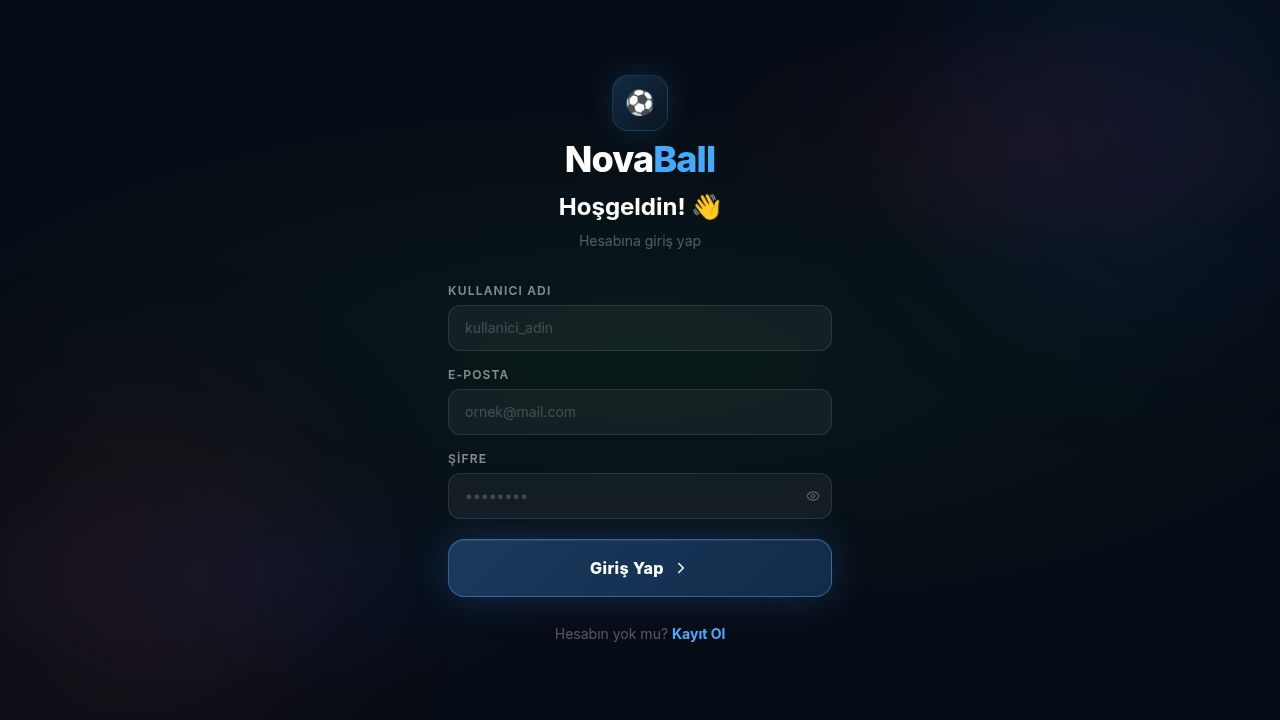
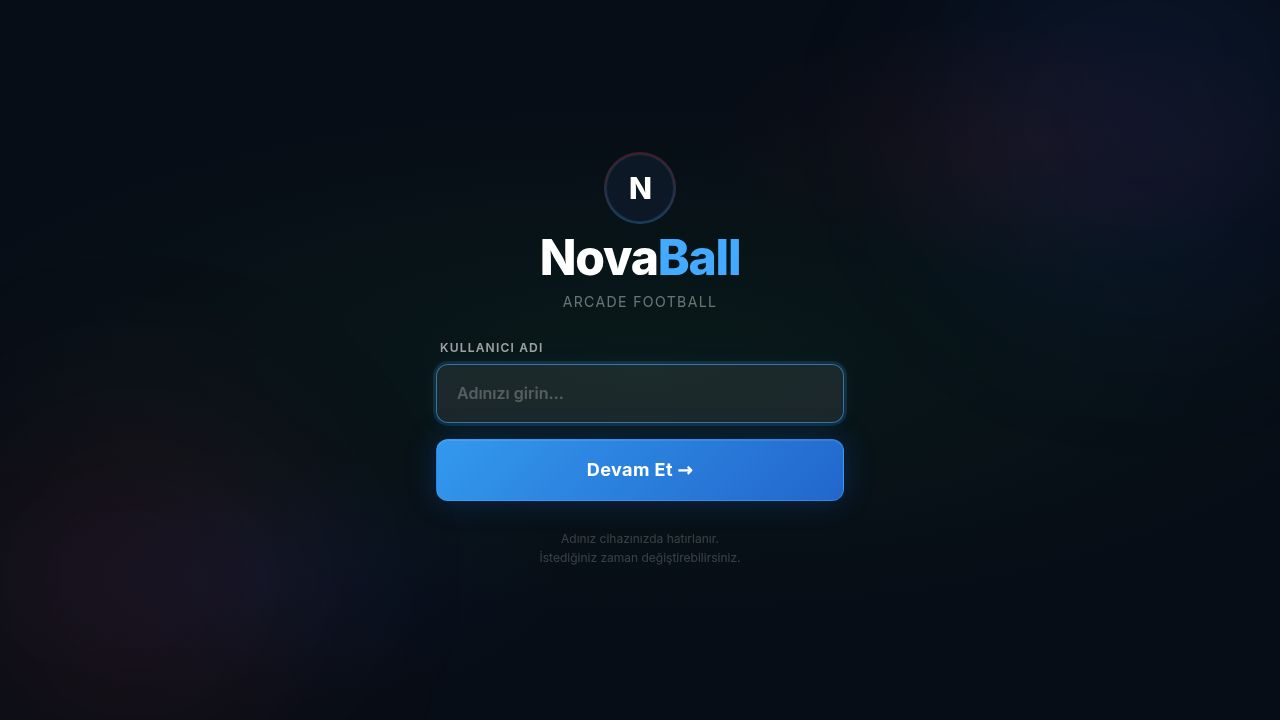
Revert "NovaBall: framer-motion eklendi, Replit monorepo yapısına güncellendi"
This reverts commit 960814a79bff9597d0ea15e9e783d79b86308b1d.

Changed region(s): [[0.3125, 0.0917, 0.6875, 0.7028], [0.3438, 0.7333, 0.6562, 0.8861], [0.6562, 0.5194, 0.6875, 0.5806]]

diff --git a/replit.md b/replit.md
@@ -1,0 +1,180 @@
+# NovaBall
+
+**NovaBall**, Haxball ve Mamoball'dan ilham alan modern bir 2D tepeden görünümlü arcade futbol oyunudur. React 19, TypeScript ve Vite üzerine inşa edilmiş, Supabase destekli tam hesap sistemiyle çalışan tarayıcı tabanlı bir oyundur. Hem masaüstü (klavye) hem de mobil yatay ekran (dokunmatik joystick) desteklenmektedir.
+
+## Kurulum ve Çalıştırma
+
+```bash
+npm run dev        # geliştirme sunucusu (port 5000)
+npm run build      # üretim derlemesi → dist/
+npm run typecheck  # TypeScript tip kontrolü
+```
+
+## Teknoloji Yığını
+
+| Katman | Teknoloji |
+|--------|-----------|
+| Dil | TypeScript 5.9 (strict) |
+| Frontend | React 19 + Vite 7 + Tailwind CSS v4 |
+| Oyun döngüsü | HTML5 Canvas + requestAnimationFrame |
+| Fizik | `useGamePhysics.ts` — özel impuls tabanlı motor |
+| Auth & Veri | Supabase (Email Auth + PostgreSQL + Realtime) |
+| Görsel paylaşım | html-to-image (maç sonuç kartı PNG üretimi) |
+| Mobil | Dokunmatik sanal joystick + aksiyon butonları |
+
+## Proje Yapısı
+
+```
+src/
+├── types/
+│   └── game.ts                 # Sabitler, arayüzler (Player, Ball, AppScreen, MatchResultData…)
+├── utils/
+│   ├── rankSystem.ts           # Rank kademeleri, RP hesaplama, localStorage yardımcıları
+│   └── changelogData.ts        # Sürüm geçmişi verileri (ChangelogEntry[])
+├── hooks/
+│   └── useGamePhysics.ts       # 60 FPS fizik motoru, AI, canvas çizimi
+├── lib/
+│   ├── supabase.ts             # Supabase istemcisi
+│   ├── db.ts                   # DB yardımcıları: profil, maç, lider tablosu, RP sync
+│   ├── auth.ts                 # Auth sarmalayıcıları: signIn, signUp, signOut, resend
+│   └── utils.ts                # cn() ve genel yardımcılar
+├── components/
+│   ├── auth/
+│   │   ├── LoginPage.tsx       # Giriş: kullanıcı adı + e-posta + şifre, "Hoşgeldin! 👋"
+│   │   ├── RegisterPage.tsx    # Kayıt: görünen ad, kullanıcı adı, e-posta, şifre + güç göstergesi
+│   │   └── EmailVerifyPage.tsx # E-posta doğrulama bekleme + tekrar gönderme
+│   ├── ui/                     # Shadcn-benzeri temel UI bileşenleri
+│   ├── GameBoard.tsx           # Canvas sarmalayıcı + HUD + mobil kontroller
+│   ├── MainMenu.tsx            # Ana menü — rank rozeti, oyun modları, navigasyon
+│   ├── MatchResult.tsx         # Maç sonu: RP, rank ilerleme, paylaşım butonu
+│   ├── ShareCard.tsx           # 540×540 PNG paylaşım kartı (html-to-image)
+│   ├── LeaderboardPage.tsx     # Lider tablosu — Realtime, aktif oyuncu göstergesi
+│   ├── ProfilePage.tsx         # Oyuncu profili ve maç geçmişi
+│   ├── MobileControls.tsx      # Dokunmatik joystick + şut/depar butonları
+│   ├── RankPage.tsx            # Tüm rank kademelerinin detay sayfası
+│   └── ChangelogPage.tsx       # Sürüm geçmişi sayfası (changelogData.ts'den beslenur)
+├── App.tsx                     # Ekran durum makinesi
+└── index.css                   # Tailwind v4 direktifleri + özel stiller
+supabase/
+└── schema.sql                  # Şema v3.1.0 — players, match_history, RLS, RPC fonksiyonları
+.migration-backup/
+└── replit.md                   # Sürüm geçmişi ve değişiklik notları
+github-sync.sh                  # GitHub push/pull otomasyon scripti
+```
+
+## Ekran Akışı
+
+```
+LoginPage ──→ RegisterPage ──→ EmailVerifyPage
+    │                               │ (doğrulama bağlantısına tıklayınca)
+    └───────────────────────────────┘
+                    ↓
+                MainMenu ──→ GameBoard (Serbest Oyun)
+                    │    ──→ GameBoard (Rekabet) ──→ MatchResult ──→ MainMenu
+                    │    ──→ LeaderboardPage
+                    │    ──→ ProfilePage
+                    └──→ RankPage / ChangelogPage
+```
+
+`AppScreen` union type: `"login" | "register" | "email-verify" | "menu" | "playing" | "ranked" | "result" | "leaderboard" | "profile" | "rankpage" | "changelog"`
+
+## Mimari Kararlar
+
+### Auth & Kayıt
+- **Supabase Email+Password Auth** — e-posta doğrulama zorunlu.
+- **Kayıt**: `signUp()` → `createPlayer()` → `EmailVerifyPage`.
+- **Giriş**: `get_email_by_username()` RPC ile kullanıcı adı → e-posta bulunur → `signIn(email, password)`.
+- **E-posta doğrulama**: Supabase `onAuthStateChange` ile `EMAIL_CONFIRMED` eventi → otomatik ana menü.
+- Kullanıcı adı kısıtlaması: `^[a-z0-9]{3,15}$` — DB constraint + frontend doğrulama.
+
+### Veri & Senkronizasyon
+- **RP ikili yazma**: `localStorage` (anlık) + Supabase (kalıcı). Sunucu değeri > yerel ise sunucu esas alınır.
+- **Lider tablosu**: Supabase Realtime subscription ile anlık güncelleme; `last_seen < 5dk` → "Aktif" rozeti.
+- **Periyodik last_seen**: Oturum açık iken her 2 dakikada bir güncellenir.
+
+### Share Card
+- `MatchResult` → "Sonuç Kartını Paylaş" → `ShareCard` modal.
+- `html-to-image toPng()` ile `CardFace` div'i 540×540, 2× piksel yoğunluklu PNG'ye dönüştürülür.
+- Web Share API (mobil) / İndirme (`<a download>`) / `navigator.clipboard.write()` desteği.
+- Rank tier rengine göre dinamik glow, gradient ve progress bar.
+
+### Fizik Motoru
+- Tüm değişken oyun durumu `useRef` — her frame React re-render tetiklenmez.
+- Yalnızca HUD verisi (`score`, `gameTime`, `goalFlash`) için `useState`.
+- 60 FPS kilidi: `ts - lastTs < FRAME_MS - 2` koşuluyla 120Hz'de çift frame atlanır.
+- Şarj şutu: `kickCharge` 0→1 arası dolar (~0.75s), bırakınca `MIN_KICK_POWER + delta * kickCharge`.
+
+## Oyun Sabitleri
+
+| Sabit | Değer | Açıklama |
+|-------|-------|---------|
+| `CANVAS_WIDTH/HEIGHT` | 1200×675 | Oyun alanı (16:9) |
+| `RANKED_DURATION_MS` | 90 000 ms | Rekabet maçı süresi |
+| `PLAYER_MAX_SPEED` | 4.8 | Normal maksimum hız |
+| `SPRINT_SPEED_MULT` | 1.75 | Depar hız çarpanı |
+| `STAMINA_MAX` | 100 | Maksimum stamina |
+| `MIN_KICK_POWER` | 5 | Minimum şut gücü |
+| `MAX_KICK_POWER` | 15 | Maksimum şut gücü |
+| `CHARGE_RATE` | 0.022/frame | Güç barı dolma hızı |
+| `FRAME_MS` | 16.667 ms | 60 FPS kilidi |
+| `FOUNDING_DATE` | "11 Haziran 2026" | Oyun kuruluş tarihi |
+
+## Rank Sistemi
+
+- **19 seviye**: Demir I-III → Bronz I-III → Gümüş I-III → Altın I-III → Platin I-III → Elmas I-III → Usta
+- RP `localStorage`'da `novaball_rp` anahtarıyla saklanır; Supabase ile senkronize edilir.
+- Yenilgide RP kaybı yoktur.
+- RP formülü (kazanınca): 1 gol→+10, 2→+14, 3→+18, 4→+22, 5+→+25
+
+## Veritabanı Şeması (v3.1.0)
+
+### `players` tablosu
+| Kolon | Tip | Açıklama |
+|-------|-----|---------|
+| `username` | TEXT PK | `^[a-z0-9]{3,15}$` |
+| `display_name` | TEXT | Profil/lider tablosunda görünen ad (max 32) |
+| `email` | TEXT UNIQUE | Supabase Auth e-postası |
+| `auth_id` | UUID | Supabase Auth kullanıcı ID'si |
+| `rp` | INTEGER | Rank Puanı (≥0) |
+| `total_matches/wins/losses/draws` | INTEGER | Maç istatistikleri |
+| `total_goals_scored/conceded` | INTEGER | Gol istatistikleri |
+| `last_seen` | TIMESTAMPTZ | Aktif oyuncu göstergesi için |
+
+### RPC Fonksiyonları
+| Fonksiyon | Açıklama |
+|-----------|---------|
+| `get_email_by_username(username)` | Kullanıcı adından e-posta döner (giriş için) |
+| `is_username_available(username)` | Kullanıcı adı müsaitliği kontrol eder |
+| `get_leaderboard(limit)` | `is_active` alanıyla sıralı oyuncu listesi |
+
+### RLS Politikaları
+- `players`: okuma herkese açık; INSERT/UPDATE/DELETE yalnızca `auth_id = auth.uid()`.
+- `match_history`: okuma herkese açık; INSERT yalnızca kendi kullanıcı adına.
+
+## GitHub Senkronizasyonu
+
+```bash
+# GitHub'a gönder
+GITHUB_PAT=<token> bash github-sync.sh push "commit mesajı"
+
+# GitHub'dan çek
+GITHUB_PAT=<token> bash github-sync.sh pull
+```
+
+`GITHUB_PAT` Replit Secret olarak eklenmelidir.
+
+## User Preferences
+
+- **Dil**: Türkçe UI, Türkçe değişken yorumları kabul edilir.
+- **Marka**: NovaBall — neon-spor karanlık tema (`#070d16`, neon mavi `#44aaff` aksan).
+- **Mobil**: Yatay ekran zorunlu; portrait modda döndürme talimatı gösterilir.
+- **Tasarım**: Premium, minimal, glassmorphism UI (`backdrop-filter: blur`).
+- **Yeni ekranlar**: Hem masaüstü (max-w-sm/lg, merkez) hem mobil yatay uyumlu olmalı.
+
+## Gotchas
+
+- `VITE_SUPABASE_URL` ve `VITE_SUPABASE_ANON_KEY` → Replit Secrets (env var değil).
+- `html-to-image` paketi orijinal repoda eksikti — `npm install html-to-image` ile eklendi.
+- Vite config: `host: "0.0.0.0"`, `port: 5000`, `allowedHosts: true` — Replit proxy zorunluluğu.
+- Supabase Dashboard → Authentication → Confirm email: **ON** olmalı.
+- `github-sync.sh` flat kök yapısını (src/ doğrudan workspace altında) kullanır.

diff --git a/.migration-backup/replit.md b/.migration-backup/replit.md
@@ -1,0 +1,81 @@
+# NovaBall — Sürüm Geçmişi & Değişiklik Notları
+
+---
+
+## v0.0.2 — 12 Haziran 2026
+
+### Yeni Özellikler
+
+#### 🔐 Auth Sistemi (Tam Hesap)
+- **Kayıt sayfası** (`RegisterPage.tsx`): Görünen Ad, Kullanıcı Adı (yalnızca küçük harf + rakam, 3-15 karakter, gerçek zamanlı müsaitlik kontrolü), E-Posta, Şifre (güç göstergesi) + Şifre Tekrar
+- **Giriş sayfası** (`LoginPage.tsx`): "Hoşgeldin! 👋" başlığı, Kullanıcı Adı + E-Posta + Şifre kombinasyonu doğrulaması, `get_email_by_username` RPC ile eşleşme kontrolü
+- **E-posta doğrulama sayfası** (`EmailVerifyPage.tsx`): Kayıt sonrası adım adım talimat, yeniden gönderme butonu, otomatik yönlendirme (doğrulama bağlantısına tıklayınca)
+- E-posta doğrulandıktan sonra otomatik olarak ana sayfaya (`MainMenu`) yönlendirme
+- Kullanıcı adı ve Görünen Ad profilde ve lider tablosunda gösteriliyor
+
+#### 🏆 Lider Tablosu Aktif Kullanıcı Göstergesi
+- `last_seen` < 5 dakika olan oyunculara yeşil nokta (avatar köşesi) + **"Aktif"** rozeti eklendi
+- Canlı Realtime subscription ile anlık güncelleme
+
+#### 📤 Share Card (Paylaşım Kartı)
+- Maç sonucu ekranında "Sonuç Kartını Paylaş" butonu
+- `html-to-image` ile 540×540 PNG oluşturma (2× piksel yoğunluğu)
+- Rank rengine göre dinamik tasarım (glow, gradient, progress bar)
+- Web Share API (mobil) / İndirme / Panoya Kopyalama desteği
+- Maç skoru, RP kazanımı, rank rozeti, rank ilerleme çubuğu, tarih gösterimi
+
+#### 📊 Veritabanı (schema v3.0.0)
+- `players` tablosu: `username` (PK, küçük harf+rakam 3-15), `display_name`, `email`, `auth_id`, `rp`, istatistikler, `last_seen`
+- `match_history` tablosu: tüm rekabet maçı kayıtları
+- RLS politikaları: okuma herkese açık, yazma yalnızca sahip kullanıcı
+- `get_email_by_username` RPC: kullanıcı adı bazlı giriş için e-posta döner
+- Supabase Realtime: `players` + `match_history` tabloları yayına dahil
+
+### Düzeltmeler & İyileştirmeler
+- `html-to-image` paketi `package.json`'a eklendi (orijinal repoda eksikti)
+- Vite config `host: 0.0.0.0`, `port: 5000`, `allowedHosts: true` — Replit proxy uyumluluğu
+- `github-sync.sh` yolları düz proje yapısına (flat root) göre güncellendi
+- `package.json` sürümü `0.0.2`'ye güncellendi
+
+### Dosya Değişiklikleri
+| Dosya | Değişiklik |
+|-------|-----------|
+| `src/components/auth/LoginPage.tsx` | Yeni — Giriş ekranı |
+| `src/components/auth/RegisterPage.tsx` | Yeni — Kayıt ekranı |
+| `src/components/auth/EmailVerifyPage.tsx` | Yeni — E-posta doğrulama |
+| `src/components/ShareCard.tsx` | Yeni — Paylaşım kartı |
+| `src/components/LeaderboardPage.tsx` | Aktif kullanıcı göstergesi eklendi |
+| `src/App.tsx` | Auth state machine (login→register→email-verify→menu) |
+| `src/lib/auth.ts` | Yeni — Supabase Auth sarmalayıcıları |
+| `src/lib/db.ts` | createPlayer, findEmailByUsername, subscribeLeaderboard eklendi |
+| `supabase/schema.sql` | v3.0.0 — players, match_history, RLS, RPC |
+| `vite.config.ts` | Replit proxy için server config eklendi |
+| `github-sync.sh` | Flat yapıya güncellendi, .migration-backup desteği eklendi |
+| `replit.md` | Türkçe kapsamlı proje belgesi |
+| `.migration-backup/replit.md` | Bu dosya — sürüm geçmişi |
+
+---
+
+## v0.0.1 — 11 Haziran 2026
+
+### İlk Sürüm (NovaBall v3 baseline)
+- React 19 + TypeScript + Vite 7 + Tailwind CSS 4
+- 60 FPS fizik motoru (`useGamePhysics.ts`) — impuls tabanlı daire çarpışmaları
+- Şarj bazlı şut sistemi (güç barı, conic-gradient halka)
+- Stamina/depar sistemi
+- AI rakip (top takibi, gol savunma, rastgele atış)
+- Rank sistemi: 7 kademe × 3 alt rank = 19 seviye (Demir → Usta)
+- Supabase bağlantısı (URL + Anon Key)
+- Mobil dokunmatik kontroller (sanal joystick + butonlar)
+- Portrait mod koruması (döndürme talimatı)
+- Canvas responsive (16:9 aspect-ratio)
+
+---
+
+## Planlanan (v0.0.3+)
+
+- Çok oyunculu (multiplayer) — WebSocket veya Supabase Realtime
+- Turnuva modu
+- Özelleştirilebilir karakterler / renkler
+- Ses efektleri ve müzik
+- Mobil PWA desteği (offline önbellek)